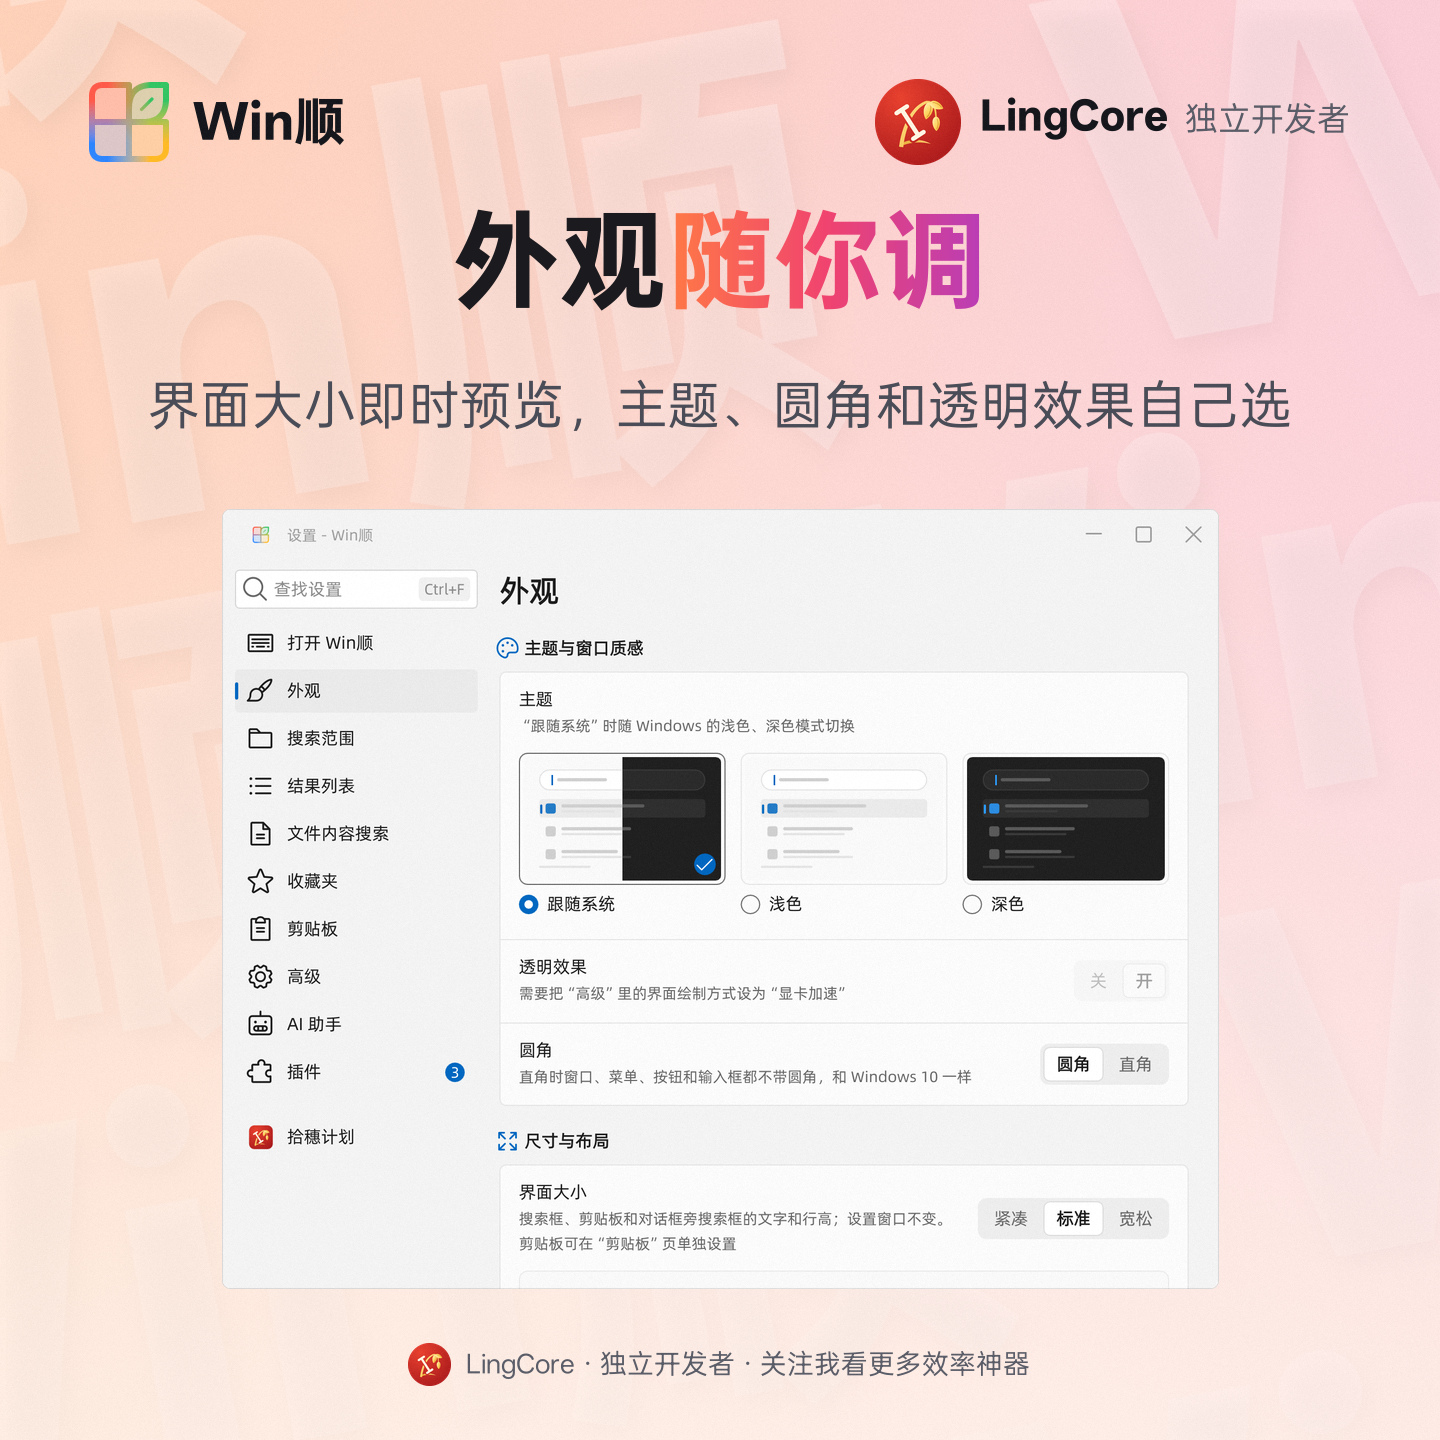
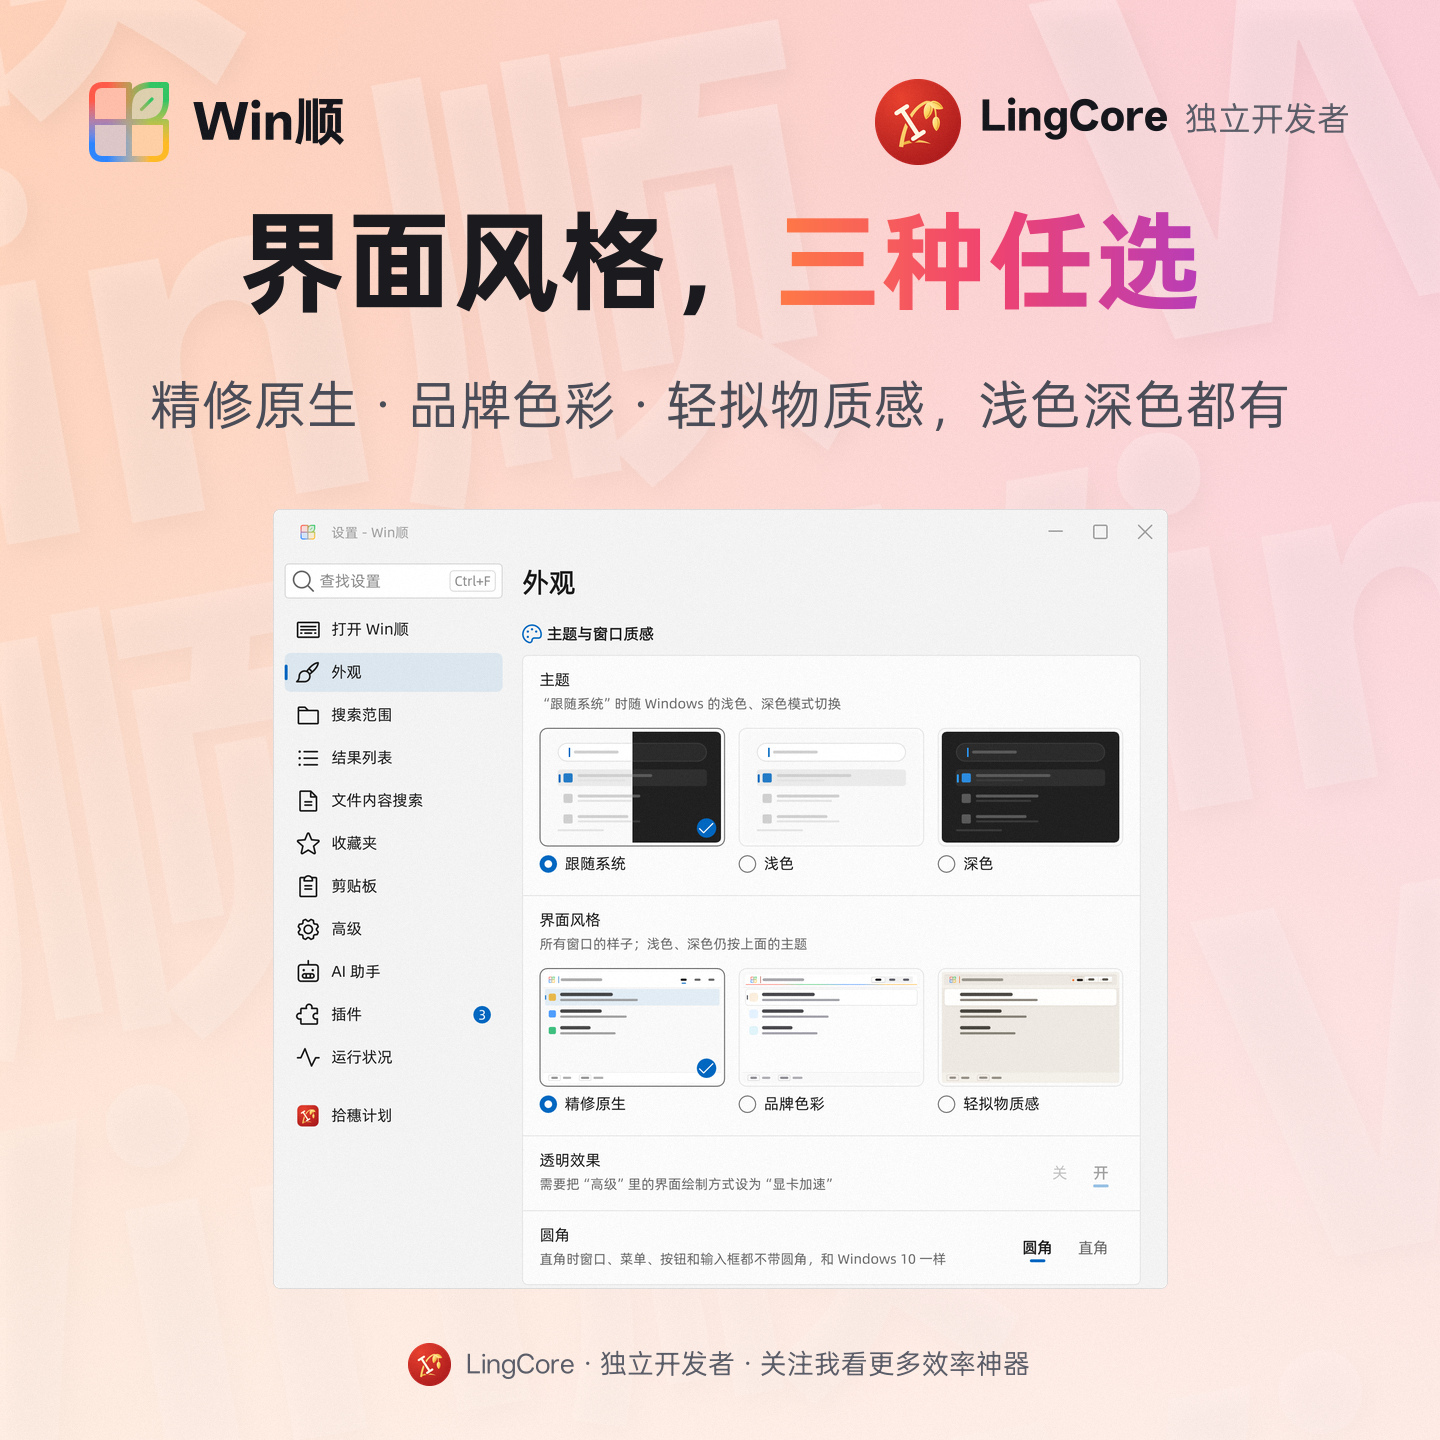
Posters for 0.21.0: appearance with the three interface styles, the new health page
Rendered by release021.py from the release build's settings preview
(200%, isolated profile); the square brand template as before.

diff --git a/tools/screenshots/release021.py b/tools/screenshots/release021.py
@@ -1,0 +1,67 @@
+"""Capture 0.21 with the isolated settings preview and the square poster template.
+
+--capture-only renders the settings into a fresh --work at 200%: the 外观 page
+now leads with the three interface styles (appearance.jpg), and the new
+运行状况 page (health.jpg, its demo readings while the content index is read).
+Inspect the raw renders and settings/preview.log, then use --export-only with
+the same --work. Only the posters in SOURCES are written; the others keep
+their files. No running WinShun is touched; the preview uses its own profile.
+"""
+import argparse
+import hashlib
+import json
+import os
+from pathlib import Path
+import subprocess
+import sys
+
+import release017
+import shots
+
+
+release017.SOURCES = {
+    "appearance": ("L-appearance", "settings/p01-t0.png", 1604),
+    "health": ("L-health", "settings/p10-t0.png", 1340),
+}
+shots.README_ONLY = tuple(
+    ("appearance", "L-appearance", "界面风格，[三种任选]", "精修原生 · 品牌色彩 · 轻拟物质感，浅色深色都有")
+    if entry[0] == "appearance" else entry for entry in shots.README_ONLY
+) + (
+    ("health", "L-health", "运行状况，[一目了然]", "内存花在哪 · 正在做什么、还要多久 · 一键归还"),
+)
+
+
+def capture(exe, work):
+    work.mkdir(parents=True)
+    temp = work / "temp"
+    temp.mkdir()
+    env = {**os.environ, "TEMP": str(temp), "TMP": str(temp)}
+    print("Capturing settings", flush=True)
+    subprocess.run([str(exe), "--preview-settings", str(work / "settings"), "--scale", "2",
+                    "--renderer", "d3d11"], env=env).check_returncode()
+    digest = lambda path: hashlib.sha256(path.read_bytes()).hexdigest()
+    (work / "capture.json").write_text(json.dumps({
+        "exe": str(exe), "sha256": digest(exe), "scale": 2, "renderer": "d3d11",
+        "profiles": "isolated preview fixture; production UI and controllers",
+    }, indent=2), encoding="utf-8")
+
+
+def main():
+    ap = argparse.ArgumentParser(description=__doc__)
+    ap.add_argument("--exe", type=Path, required=True)
+    ap.add_argument("--work", type=Path, required=True)
+    modes = ap.add_mutually_exclusive_group(required=True)
+    modes.add_argument("--capture-only", action="store_true")
+    modes.add_argument("--export-only", action="store_true")
+    args = ap.parse_args()
+    if args.capture_only:
+        if args.work.exists():
+            ap.error("--work must be a fresh directory when capturing")
+        capture(args.exe.resolve(strict=True), args.work.resolve())
+        return
+    sys.argv = [sys.argv[0], "--exe", str(args.exe), "--work", str(args.work), "--export-only"]
+    release017.main()
+
+
+if __name__ == "__main__":
+    main()

diff --git a/tools/screenshots/README.md b/tools/screenshots/README.md
@@ -144,3 +144,12 @@ tools\screenshots\run.ps1 -Exe <要拍的 WinShun.exe，发布版，带拖放圆
 python tools/screenshots/release019.py --exe <独立部署目录>/WinShun.exe --capture <构建目录>/library-plugins/winshun.capture/WinShunCapture.exe --work <新的原图目录> --capture-only
 python tools/screenshots/release019.py --exe <独立部署目录>/WinShun.exe --work <原图目录> --export-only
 ```
+
+## 0.21.0 补拍
+
+`release021.py` 沿用 `release017.py` 的导出和方形品牌模板，只换两张：外观页（`settings/p01-t0.png`，最上面多了三种界面风格，标题改为“界面风格，三种任选”）和新增的运行状况页（`settings/p10-t0.png`，预览自带的演示读数：正在建内容索引）。两张都来自发布程序的 `--preview-settings`，200%、D3D11、独立配置，不动正在运行的 Win顺。`settings.jpg` 是设置搜索的图，左边列表少了“运行状况”一项，其余不变，沿用。
+
+```powershell
+python tools/screenshots/release021.py --exe <独立部署目录>/WinShun.exe --work <新的原图目录> --capture-only
+python tools/screenshots/release021.py --exe <独立部署目录>/WinShun.exe --work <原图目录> --export-only
+```
